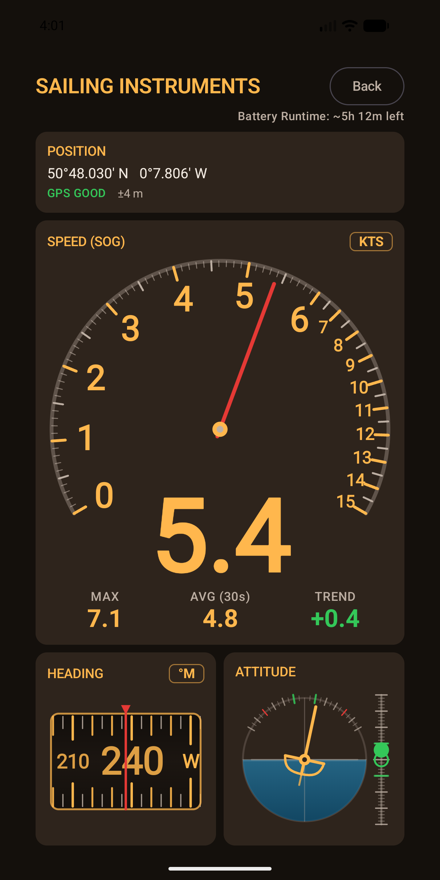
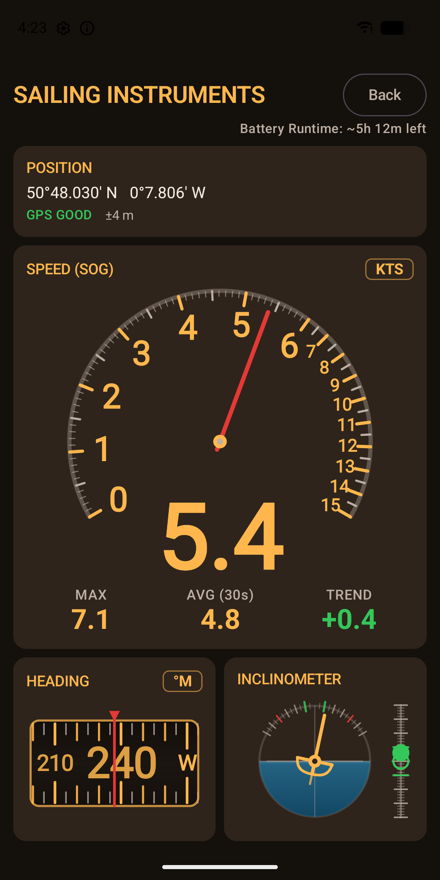
Rename attitude instrument to inclinometer; fresh app screenshots
Screenshots recaptured from the app's demo mode on an emulator with the
renamed INCLINOMETER panel; attitude.png becomes inclinometer.png.

Changed region(s): [[0.0295, 0.0614, 0.975, 1.0], [0.5318, 0.5523, 0.6795, 0.675]]

diff --git a/src/app/app-page.html b/src/app/app-page.html
@@ -4,7 +4,7 @@
 
   <div class="shots" aria-label="Screenshots">
     <img src="img/speed.png" alt="Speed over ground dial showing 5.4 knots with max, average and trend" loading="lazy" />
-    <img src="img/attitude.png" alt="Heel and trim instrument showing 12 degrees of heel" loading="lazy" />
+    <img src="img/inclinometer.png" alt="Inclinometer showing 12 degrees of heel and 3 degrees of trim" loading="lazy" />
     <img src="img/heading.png" alt="Compass heading tape showing 237 degrees magnetic" loading="lazy" />
   </div>
 

diff --git a/src/app/home.html b/src/app/home.html
@@ -7,6 +7,6 @@
 
 <div class="shots" aria-label="Screenshots">
   <img src="img/speed.png" alt="Speed over ground dial showing 5.4 knots with max, average and trend" loading="lazy" />
-  <img src="img/attitude.png" alt="Heel and trim instrument showing 12 degrees of heel" loading="lazy" />
+  <img src="img/inclinometer.png" alt="Inclinometer showing 12 degrees of heel and 3 degrees of trim" loading="lazy" />
   <img src="img/heading.png" alt="Compass heading tape showing 237 degrees magnetic" loading="lazy" />
 </div>